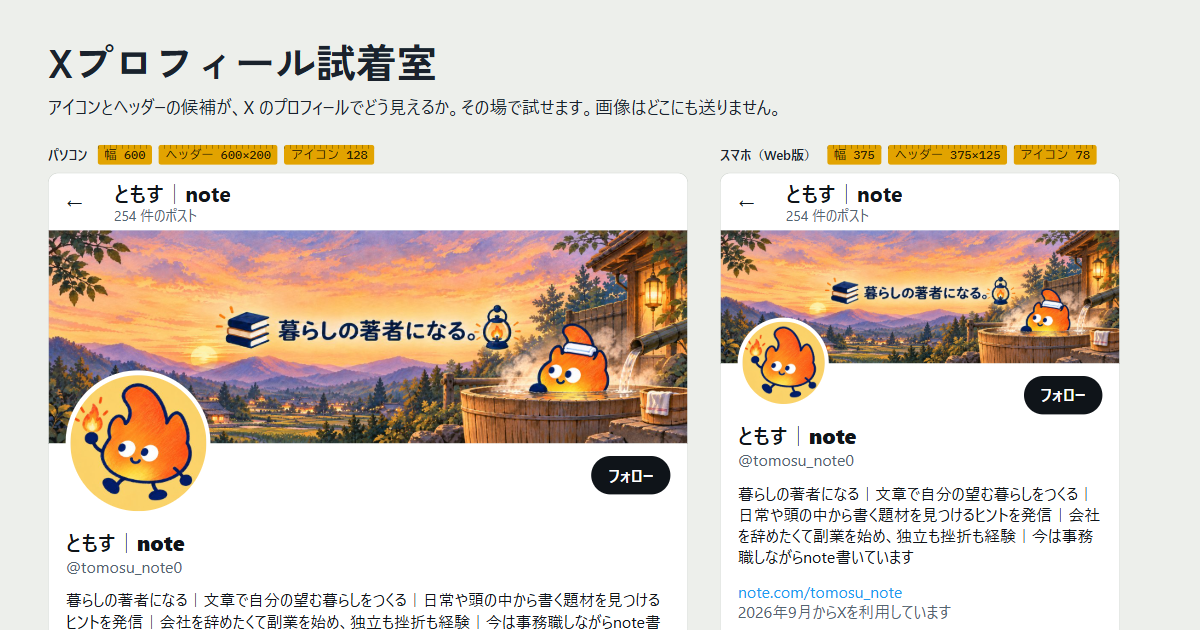
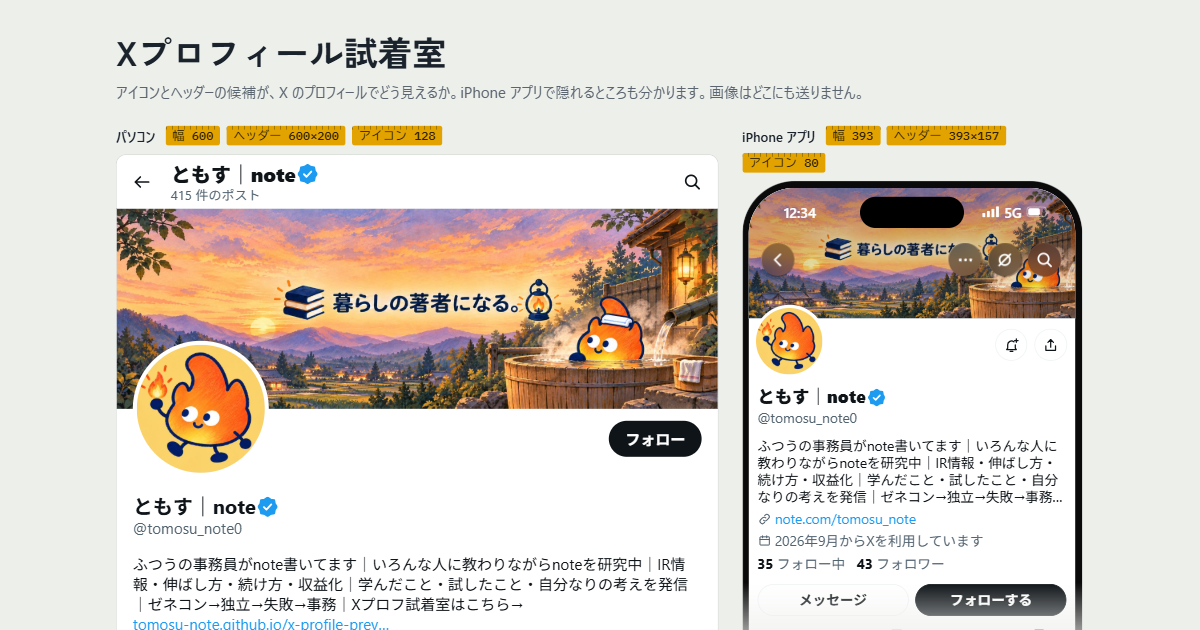
カード画像を今の見た目（パソコンと iPhone アプリ）に撮り直す
- ogp.png を差し替え
- X に古い画像が残らないよう og:image に ?v=20261109 を付ける

diff --git a/index.html b/index.html
@@ -8,7 +8,7 @@
 <meta property="og:title" content="Xプロフィール試着室">
 <meta property="og:description" content="アイコンとヘッダーの候補を入れると、X のプロフィールでどう見えるかをその場で確かめられます。画像はどこにも送りません。">
 <meta property="og:url" content="https://tomosu-note.github.io/x-profile-preview/">
-<meta property="og:image" content="https://tomosu-note.github.io/x-profile-preview/ogp.png">
+<meta property="og:image" content="https://tomosu-note.github.io/x-profile-preview/ogp.png?v=20261109">
 <meta property="og:image:width" content="1200">
 <meta property="og:image:height" content="630">
 <meta name="twitter:card" content="summary_large_image">
